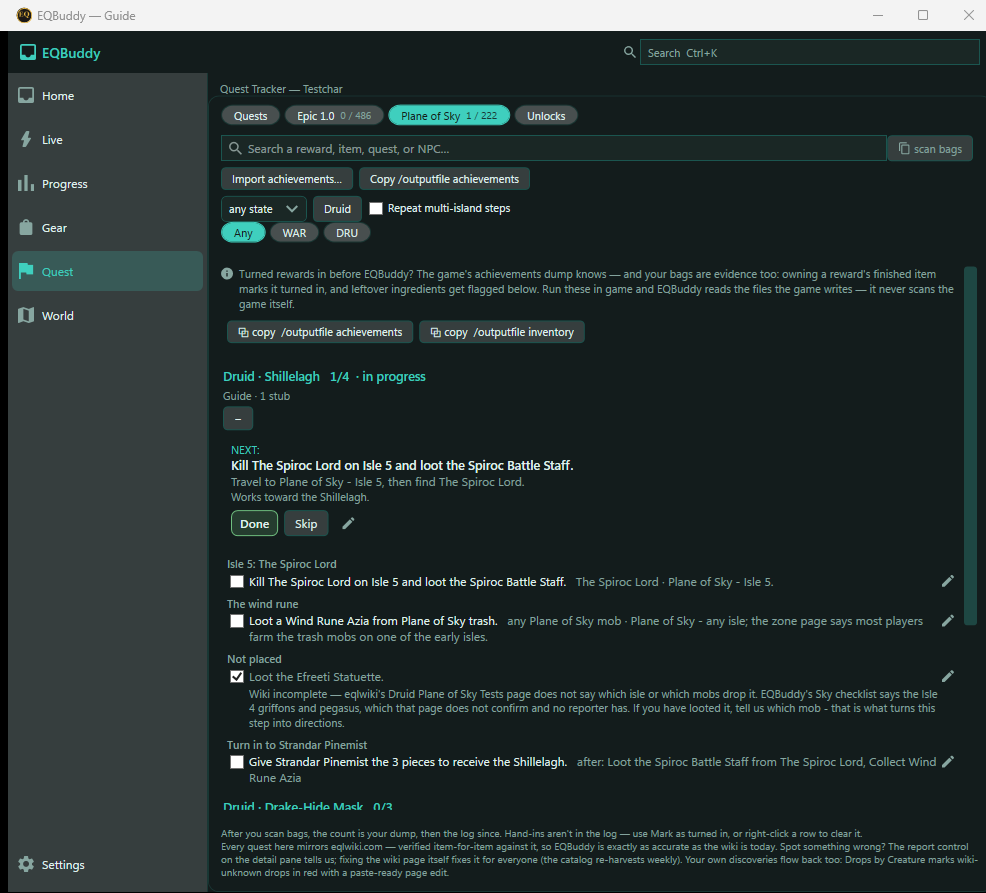
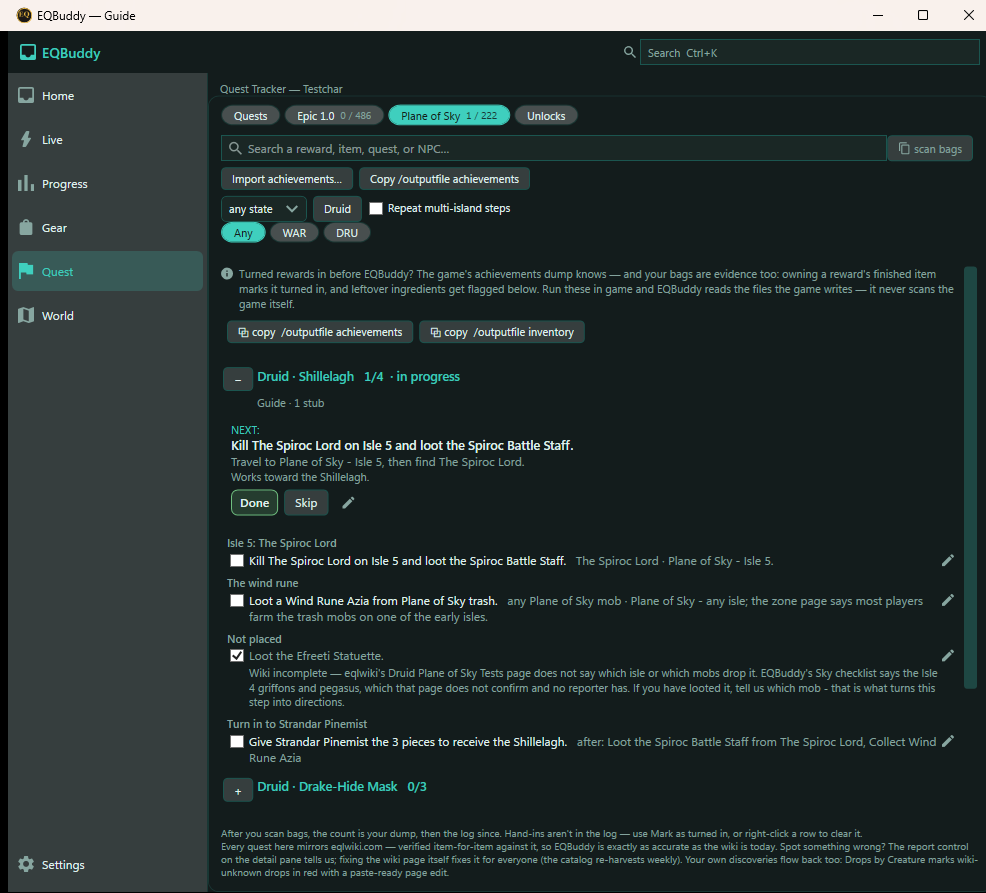
guide: the fold "+" moves onto the heading line, beside the quest name
David, 2026-09-09: "I imagined the + would be next to the quest name, not
wasting space between each quest name... similarly to how the main EQBuddy
window works when you click on a card and it expands below."

The control had its own row under each heading, so a folded class cost two
lines per quest to say what one line says. It now leads the name in a
three-column heading grid (fold, name, turn-in) and the caption rides row 1
of the same grid, aligned under the NAME rather than under the "+". A class
of six goes from twelve lines to six.

Column 0 is empty and zero-wide for an unguided group, so Epic headings and
any unguided Sky reward sit exactly where they did.

Two things the E2E and the frame caught:

* The dump swept only DIRECT children of the panel, so nesting the fold
  control inside the heading grid reported zero guided groups for a tab
  drawing six. PanelElements() now sweeps one level of Grid, which is the
  rule RowBoxesOnScreen already had to follow by hand.
* GuideCaptionTag was left written-but-never-read when the group count moved
  to the fold tag (trap 43). It is now its own dump fact, and the E2E asserts
  the Warrior draws six headings and ZERO captions - the caption suppression,
  on the real screen, in two numbers that can disagree.

TestPlan and the unreleased 2.0.0 WhatsNew both still promised "Show steps"
and "Guide - 1 of 3 - 1 stub"; corrected to what ships.

Changed region(s): [[0.213, 0.3931, 1.0, 0.9071], [0.0609, 0.0, 0.0913, 0.0302]]

diff --git a/src/EQBuddy/QuestsView.xaml.cs b/src/EQBuddy/QuestsView.xaml.cs
@@ -1109,6 +1109,11 @@ public partial class QuestsView : UserControl
         // per guided group. The fold control is — every guided group draws exactly one,
         // folded or open — which is what makes it the group's identity on screen (trap 39).
         $"questsGuideGroups={GuideElementsOnScreen<Button>(GuideFoldTag)} " +
+        // ...and the caption counted SEPARATELY, because "how many groups drew one" is now a
+        // real question with a real answer. It is drawn only where it adds stubs or skipped,
+        // so a class with neither shows six headings and NO caption lines — an assertion that
+        // could not exist while the two were the same tag.
+        $"questsGuideCaptions={GuideElementsOnScreen<TextBlock>(GuideCaptionTag)} " +
         $"questsGuideRows={GuideRowsOnScreen().Count()} " +
         $"questsGuideStubs={GuideStubsOnScreen()} " +
         $"questsGuideDone={GuideRowsOnScreen().Count(c => c.IsChecked == true)} " +
@@ -1323,7 +1328,12 @@ public partial class QuestsView : UserControl
             FontSize = DesignTokens.Spec(Role.Body).Size,
             MinWidth = DesignTokens.IconButtonSize,
             HorizontalAlignment = HorizontalAlignment.Left,
-            Margin = new Thickness(DesignTokens.SpaceXxs, 0, 0, DesignTokens.SpaceXs),
+            // Centred on the heading's own line and carrying its vertical margins, so the
+            // glyph sits level with the name it opens rather than under it (David,
+            // 2026-09-09).
+            VerticalAlignment = VerticalAlignment.Center,
+            Margin = new Thickness(DesignTokens.SpaceXxs, DesignTokens.SpaceL,
+                0, DesignTokens.SpaceXs),
             // The words the face dropped live here, where they cost no width.
             ToolTip = GuidePresentation.FoldTip(group.Collapsed),
             Tag = GuideFoldTag,
@@ -1358,8 +1368,25 @@ public partial class QuestsView : UserControl
     /// <summary>The tag the row-end "Improve this step" door carries.</summary>
     private const string GuideImproveTag = "guideImprove";
 
+    /// <summary>
+    /// Everything the panel draws, one level of <see cref="Grid"/> included.
+    ///
+    /// <para>The panel holds a mix: some things are laid straight in, and anything that
+    /// shares a LINE with something else is wrapped in a Grid. Which of the two a given
+    /// element is arrives with the layout and changes when the layout does — the heading's
+    /// fold control moved from its own row into the heading's Grid the day the "+" went
+    /// beside the name (David, 2026-09-09), and a direct-children sweep reported zero guided
+    /// groups for a tab that was drawing six. <c>RowBoxesOnScreen</c> already had to sweep
+    /// both; this is the same rule for every other tagged element rather than a second
+    /// hand-written copy of it.</para></summary>
+    private IEnumerable<FrameworkElement> PanelElements() =>
+        QuestsPanel.Children.OfType<FrameworkElement>()
+            .SelectMany(e => e is Grid g
+                ? g.Children.OfType<FrameworkElement>().Prepend(e)
+                : [e]);
+
     private int GuideElementsOnScreen<T>(string tag) where T : FrameworkElement =>
-        QuestsPanel.Children.OfType<T>().Count(e => e.Tag as string == tag);
+        PanelElements().OfType<T>().Count(e => e.Tag as string == tag);
 
     // A guide row is a CheckBox, and a guide row WITH its share-back door is that CheckBox
     // inside a two-column Grid — so both arrangements have to be swept or the door's
@@ -2715,13 +2742,40 @@ public partial class QuestsView : UserControl
             // across: SkyQuestCompleted kept being READ by both desktops and the phone
             // while nothing but the achievements import could WRITE it. Holding the pieces
             // and having handed them over are different states.
+            // THE HEADING LINE: the fold control, the name, and the turn-in button when there
+            // is one — all on one row.
+            //
+            // The "+" sits BESIDE the name, not under it (David, 2026-09-09): *"I imagined
+            // the + would be next to the quest name, not wasting space between each quest
+            // name… similarly to how the main EQBuddy window works when you click on a card
+            // and it expands below."* A folded list exists to fit a class on one screen, and
+            // a control on its own row spent a line per quest doing what a leading glyph does
+            // for free. Leading, because that is where a disclosure control lives — the eye
+            // reads the + then the thing it opens.
+            //
+            // Column 0 is empty and therefore zero-wide for an UNGUIDED group (the Epic tab,
+            // and any Sky reward with no guide), so those headings sit exactly where they did.
+            var headingRow = new Grid();
+            headingRow.ColumnDefinitions.Add(new ColumnDefinition { Width = GridLength.Auto });
+            headingRow.ColumnDefinitions.Add(new ColumnDefinition { Width = new GridLength(1, GridUnitType.Star) });
+            headingRow.ColumnDefinitions.Add(new ColumnDefinition { Width = GridLength.Auto });
+            // A second row for the caption, so it lines up under the NAME rather than under
+            // the fold control. The grid answers that, not arithmetic on the control's width.
+            headingRow.RowDefinitions.Add(new RowDefinition { Height = GridLength.Auto });
+            headingRow.RowDefinitions.Add(new RowDefinition { Height = GridLength.Auto });
+
+            if (group.GuideId.Length > 0)
+            {
+                headingRow.Children.Add(FoldToggle(group));
+                // The name moves off the panel's own left edge to sit after the control.
+                headingText.Margin = new Thickness(DesignTokens.SpaceXs, DesignTokens.SpaceL,
+                    0, DesignTokens.SpaceXs);
+            }
+            Grid.SetColumn(headingText, 1);
+            headingRow.Children.Add(headingText);
+
             if (group.CompletionKey is { } rewardKey && (group.Completed || group.ReadyToTurnIn))
             {
-                var row = new Grid();
-                row.ColumnDefinitions.Add(new ColumnDefinition { Width = new GridLength(1, GridUnitType.Star) });
-                row.ColumnDefinitions.Add(new ColumnDefinition { Width = GridLength.Auto });
-                row.Children.Add(headingText);
-
                 var turnIn = new Button
                 {
                     Style = (Style)FindResource("EqPrimaryButton"),
@@ -2742,11 +2796,10 @@ public partial class QuestsView : UserControl
                     _settings.Save();
                     Refresh(force: true);
                 };
-                Grid.SetColumn(turnIn, 1);
-                row.Children.Add(turnIn);
-                QuestsPanel.Children.Add(row);
+                Grid.SetColumn(turnIn, 2);
+                headingRow.Children.Add(turnIn);
             }
-            else QuestsPanel.Children.Add(headingText);
+            QuestsPanel.Children.Add(headingRow);
 
             // "Guide · 0 of 3 · 1 stub" — how far along, and how many of these steps we could
             // not fully write down. The stub count rides the same line as the progress on
@@ -2756,23 +2809,19 @@ public partial class QuestsView : UserControl
             {
                 var guideCaption = DesignSystem.Text(Role.Caption, group.GuideCaption);
                 guideCaption.TextWrapping = TextWrapping.Wrap;
-                guideCaption.Margin = new Thickness(DesignTokens.SpaceXxs, 0, 0, DesignTokens.SpaceXs);
+                guideCaption.Margin = new Thickness(DesignTokens.SpaceXs, 0, 0, DesignTokens.SpaceXs);
                 guideCaption.Ink("DimBrush");
-                // Identity is a property you PUT on the object (trap 39) — the dump counts
-                // guided groups off this tag rather than off a flag the render sets, because
-                // a flag nobody resets goes stale without anything noticing.
                 guideCaption.Tag = GuideCaptionTag;
-                QuestsPanel.Children.Add(guideCaption);
+                // Row 1, column 1: under the name, not under the "+".
+                Grid.SetRow(guideCaption, 1);
+                Grid.SetColumn(guideCaption, 1);
+                headingRow.Children.Add(guideCaption);
             }
 
-            // FOLDED: the heading, its counts and its caption, and nothing else. That is
-            // what lets a whole class fit on one screen and be dug into one quest at a time.
-            if (group.GuideId.Length > 0 && group.Collapsed)
-            {
-                QuestsPanel.Children.Add(FoldToggle(group));
-                continue;
-            }
-            if (group.GuideId.Length > 0) QuestsPanel.Children.Add(FoldToggle(group));
+            // FOLDED: the heading line — which now carries the fold control itself — its
+            // counts and its caption, and nothing else. That is what lets a whole class fit
+            // on one screen and be dug into one quest at a time.
+            if (group.GuideId.Length > 0 && group.Collapsed) continue;
 
             // The active-step card, ABOVE this group's rows: the one thing on the tab that
             // says "do this next" rather than "here is everything" belongs where the eye

diff --git a/tests/EQBuddy.E2E/GuideRowsTests.cs b/tests/EQBuddy.E2E/GuideRowsTests.cs
@@ -208,6 +208,12 @@ public class GuideRowsTests
 
         Assert.Equal(0, app.DumpValue("shellQuestsGuideRows"));
         Assert.Equal(0, app.DumpValue("shellQuestsGuideCards"));
+        // SIX headings and NO caption lines. The caption draws only where it adds stubs or
+        // skipped (Bevel SIGNED), and the Warrior's six rewards have neither since DRA-44 —
+        // so this is the whole fix, on the real screen, in two numbers that differ. While
+        // the dump counted groups off the CAPTION's tag these could not have disagreed.
+        Assert.Equal(0, WarriorStubs);
+        Assert.Equal(0, app.DumpValue("shellQuestsGuideCaptions"));
         // ...and the classic item rows are not drawn in their place either: a folded guided
         // quest shows its heading, not the list the guide replaced.
         Assert.Equal(0, app.DumpValue("shellQuestsSkyRows"));
@@ -230,8 +236,8 @@ public class GuideRowsTests
         app.WaitForDump("questsGuideRows", WarriorRows, "the window's guide rows");
 
         foreach (var key in new[]
-                 { "GuideGroups", "GuideRows", "GuideStubs", "GuideDone", "GuideImprove",
-                   "SkyRows", "GuideCards", "GuideNext", "GuideSkipped" })
+                 { "GuideGroups", "GuideCaptions", "GuideRows", "GuideStubs", "GuideDone",
+                   "GuideImprove", "SkyRows", "GuideCards", "GuideNext", "GuideSkipped" })
             Assert.Equal(app.DumpValue("quests" + key), app.DumpValue("shellQuests" + key));
     }
 }

diff --git a/docs/TestPlan.md b/docs/TestPlan.md
@@ -97,7 +97,7 @@ where each of its assertions went.
 | **A guided reward's rows ARE its guide's objectives, in reading order, under its stage names — and a reward no guide claims comes back the SAME OBJECT it went in as** (Founder lock 5: a class is fully guided or exactly as it was, never half) | **Auto** — `GuideChecklistProjectionTests` (reference equality for the untouched case; prove-fail: a catalog whose turn-in key matches no group attaches nothing) |
 | **A guide step's tick has exactly one home, and an acquire-shaped step naming exactly one of ITS reward's rows is that row's own checklist box** — so the loot auto-tick lights the guide for free and no item is drawn twice (trap 4). Two matches, no match, or the wrong objective type all fall back to the guide ledger | **Auto** — `GuideItemRoutingTests` (incl. the negative: with no group in hand the same step falls to the ledger and the two stores disagree) |
 | **A turn-in row does not count itself among the pieces it waits for** — otherwise "ready to turn in" is unreachable and a reward with every drop in hand silently leaves the cross-class Ready band | **Auto** — `GuideChecklistProjectionTests`, `QuestChecklistGroup.AllPiecesInHand` (one predicate, three readers) |
-| **A guided quest folds, and starts folded** — a class's rewards read as headings with their counts and captions, and "Show steps" opens one. The EXPANDED set is what persists (`AppSettings.GuideExpanded`), because an opt-out list would gain 95 entries the first time anyone scrolled and a newly authored class would arrive open | **Auto** — `GuideSurfaceParityTests` (the phone folds with the desktop); **Shot** — `shell-quests-sky-guide-folded` |
+| **A guided quest folds, and starts folded** — a class's rewards read as one heading LINE each - a "+" leading the name, its counts beside it, and the caption (stubs/skipped only) under the NAME - and the "+" opens one. The control sits on the heading rather than under it (David, 2026-09-09) so a class costs six lines rather than twelve. The EXPANDED set is what persists (`AppSettings.GuideExpanded`), because an opt-out list would gain 95 entries the first time anyone scrolled and a newly authored class would arrive open | **Auto** — `GuideSurfaceParityTests` (the phone folds with the desktop); **Shot** — `shell-quests-sky-guide-folded` |
 | **A quest's heading says what it PAYS on hover** — "Rewards the X. Needs A, B." The phone has no hover, so it draws the line (trap 35); on a folded quest it is the only thing answering "what do I get" | **Auto** — `GuidePresentationTests.TheRewardSummaryNamesWhatYouGetAndWhatItCosts` |
 | **The guide speaks in sentences, not labelled fields** — "Travel to Plane of Sky - Isle 5, then fight The Spiroc Lord." The verb follows the objective type, an unanswered half is dropped rather than composed round, and the detail line is suppressed when it restates the instruction | **Auto** — `GuidePresentationTests` (`TheHoverAnswersAllSixQuestionsWithoutLabellingThem`, `TheDirectionVerbFollowsWhatTheStepActuallyIs`, `DirectionsDropTheHalfTheStepDoesNotHave`, `TheDetailLineOnlyAppearsWhenItSaysSomethingNew`) |
 | **The active-step card names ONE next step per guided reward** — first in reading order that is not done, not skipped, and whose prerequisites are all DONE (a skipped prerequisite does not unlock a turn-in). All-done and all-skipped are different sentences | **Auto** — `GuidePresentationTests` (`NextIsTheFirstStepInReadingOrderThatIsNotDoneOrSkipped`, `AStepWhoseePrerequisitesAreNotDoneIsSkippedOverRatherThanOffered`, `AllDoneAndAllSkippedAreDifferentSentences`) |
